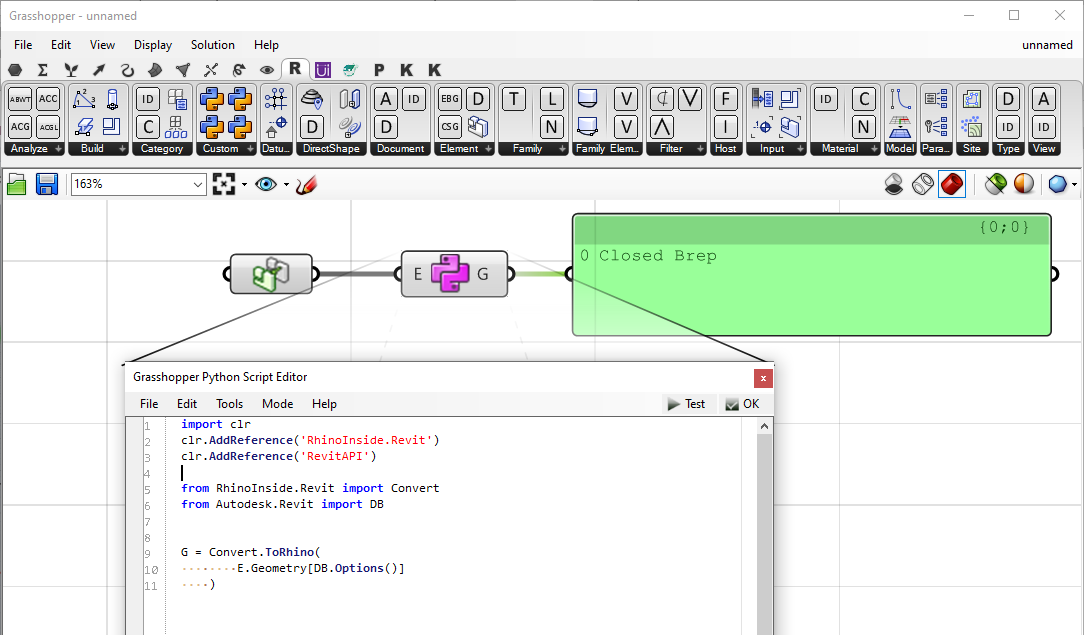
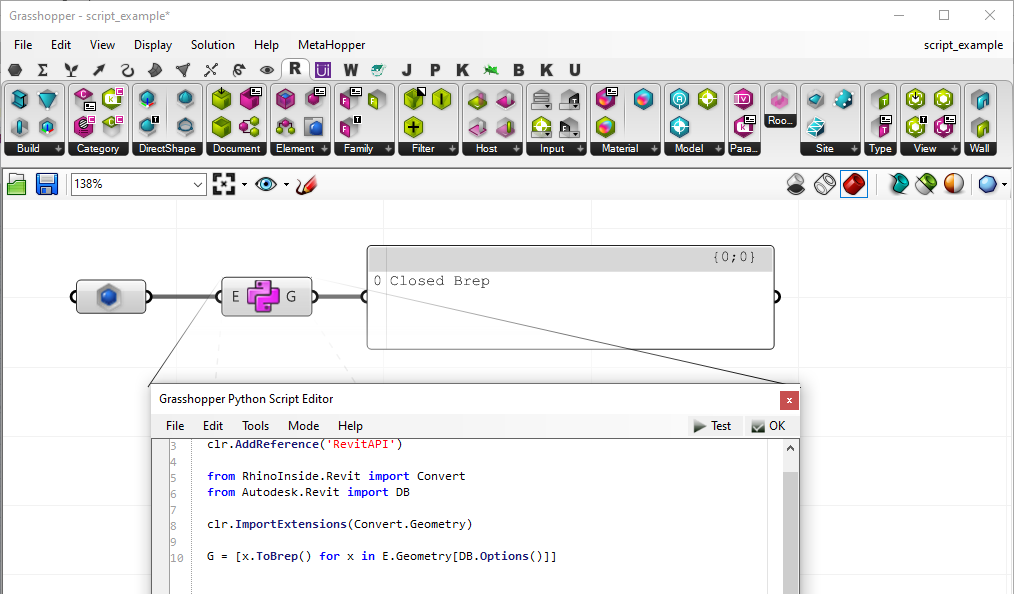
updated wiki screenshots

diff --git a/docs/pages/_en/beta/getting-started.md b/docs/pages/_en/beta/getting-started.md
@@ -116,17 +116,9 @@ Now open Grasshopper and add a curve component. Right-Click the component and se
 
 ![]({{ "/static/images/started/rir-rhino2.png" | prepend: site.baseurl }})
 
-Now from the *Revit > Input* panel and a {% include ltr/comp.html uuid="eb266925-" %} component,
+Now from the *Revit > Input* panel and {% include ltr/comp.html uuid="eb266925-" %}, {% include ltr/comp.html uuid="d3fb53d3-9" %} and {% include ltr/comp.html uuid="bd6a74f3-" %} components as well:
 
 ![]({{ "/static/images/started/rir-rhino3.png" | prepend: site.baseurl }})
-
-and also let's add an {% include ltr/comp.html uuid="d3fb53d3-9" %}, 
-
-![]({{ "/static/images/started/rir-rhino4.png" | prepend: site.baseurl }})
-
-and a {% include ltr/comp.html uuid="bd6a74f3-" %} component as well.
-
-![]({{ "/static/images/started/rir-rhino5.png" | prepend: site.baseurl }})
 
 Finally let's add a Grasshopper integer slider as well to provide the height for our new wall
 
@@ -203,6 +195,9 @@ from Autodesk.Revit import DB
 # rhino.inside utilities
 import RhinoInside API
 from RhinoInside.Revit import Revit, Convert
+# add extensions methods as well
+# this allows calling .ToXXX() convertor methods on Revit objects
+clr.ImportExtensions(Convert.Geometry)
 
 # getting active Revit document
 doc = Revit.ActiveDBDocument
@@ -211,9 +206,7 @@ doc = Revit.ActiveDBDocument
 So to use the example above, we can add the lines below to our script to read the geometry of input Revit element (`E`) using Revit API (`.Geometry[DB.Options()]`) and the pass that to the utility method provided by {{ site.terms.rir }} API to convert the Revit geometry into Rhino (`Convert.ToRhino()`) and finally pass the Rhino geometry to Grasshopper output.
 
 {% highlight python %}
-O = Convert.ToRhino(
-    E.Geometry[DB.Options()]
-    )
+G = [x.ToBrep() for x in E.Geometry[DB.Options()]]
 {% endhighlight %}
 
 ![]({{ "/static/images/started/rir-ghpy.png" | prepend: site.baseurl }})
